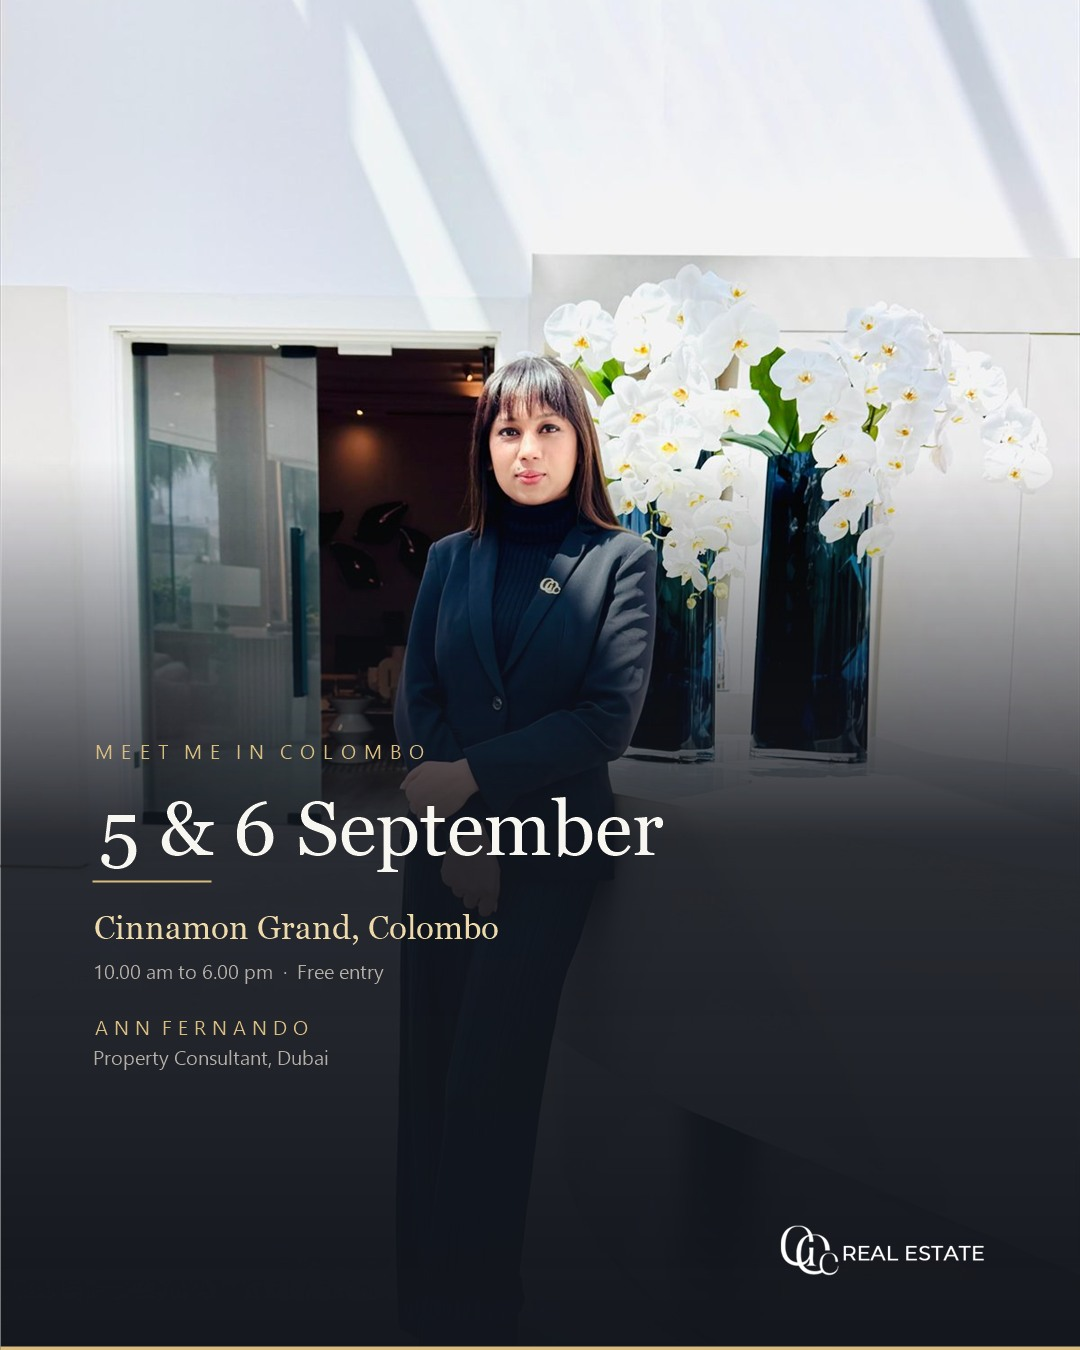
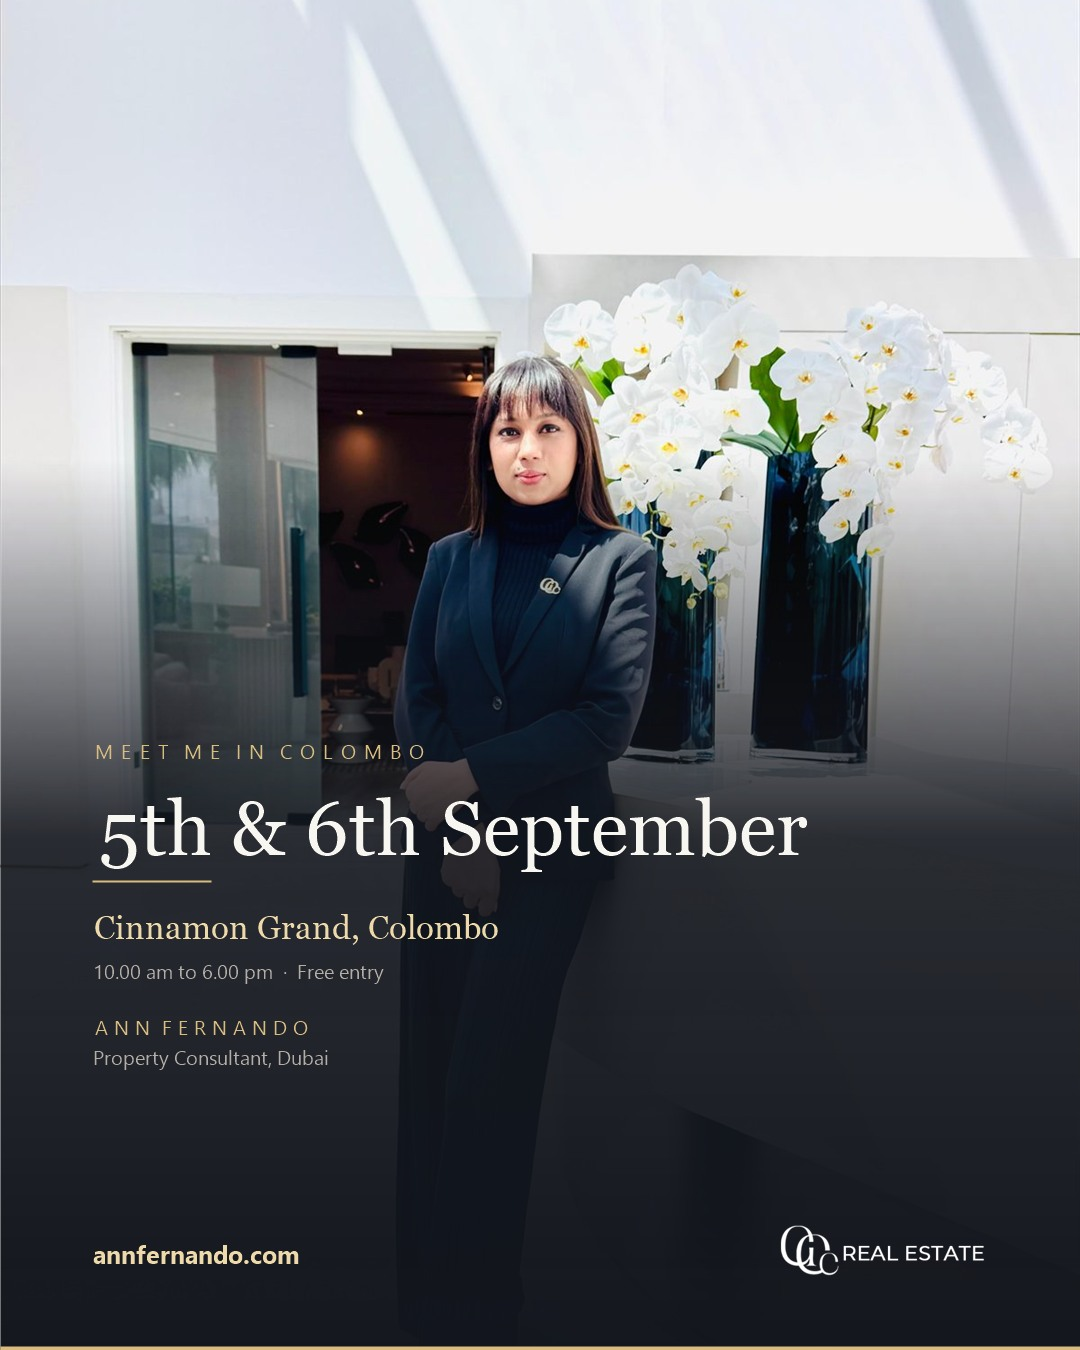
Add the Colombo roadshow section, and the site URL to the creatives
The ads now drive to the website rather than straight to WhatsApp, so the
site had to actually mention the event. It did not.

Site:
- New band directly under the trust bar, where paid traffic lands
- Date, venue, time, free entry, and a live countdown in days/hours/mins
- 'Reserve your slot' opens WhatsApp with the event and dates pre-filled
- Gold-highlighted nav pill, 'Colombo, 5-6 Sept'
- Leads with the reassurance that nobody will be asked to sign anything.
  Fear of a hard sell in a hotel function room is the main reason people
  do not turn up, so it is answered before anything else.
- Self-retires: roadshow.endsAt drives the countdown, and once it passes
  the band switches to 'I was in Colombo on the 5th and 6th, message me
  and we will do it on video'. That keeps converting the ad traffic still
  arriving for a week afterwards. Countdown runs client-side because the
  page is statically generated and a build-time date would freeze.

Creatives:
- Dates now read '5th & 6th September'
- annfernando.com added along the bottom left, opposite the GCC logo.
  The ad drives to the site, and these get screenshotted and forwarded
  with no link attached, so the address has to survive on its own.
- Date auto-fits its width so a longer string can never overrun

Changed region(s): [[0.2139, 0.5911, 0.7333, 0.6533], [0.0917, 0.9022, 0.275, 0.9333], [0.1222, 0.5911, 0.1833, 0.6533]]

diff --git a/components/sections/Roadshow.tsx b/components/sections/Roadshow.tsx
@@ -1,0 +1,209 @@
+"use client";
+
+import { useEffect, useState } from "react";
+import Image from "next/image";
+import { motion } from "motion/react";
+import Reveal from "@/components/Reveal";
+import { agent, roadshow } from "@/content/copy";
+import { Say } from "@/lib/bi";
+
+const EASE = [0.16, 1, 0.3, 1] as const;
+
+/**
+ * Time-boxed event band, and the landing point for paid traffic.
+ *
+ * The page is statically generated, so `new Date()` at build time would be
+ * frozen at whenever the last deploy happened. The countdown and the
+ * before/after switch therefore run on the client, after mount. Server render
+ * shows the pre-event state, which is correct until the date passes.
+ *
+ * Everything keys off `roadshow.endsAt` — change that one value and the
+ * countdown, the copy and the nav item all follow.
+ */
+function useCountdown(endsAt: string) {
+  const [state, setState] = useState<{
+    days: number;
+    hours: number;
+    minutes: number;
+    over: boolean;
+    ready: boolean;
+  }>({ days: 0, hours: 0, minutes: 0, over: false, ready: false });
+
+  useEffect(() => {
+    const end = new Date(endsAt).getTime();
+    const tick = () => {
+      const diff = end - Date.now();
+      if (diff <= 0) {
+        setState({ days: 0, hours: 0, minutes: 0, over: true, ready: true });
+        return;
+      }
+      setState({
+        days: Math.floor(diff / 86_400_000),
+        hours: Math.floor((diff / 3_600_000) % 24),
+        minutes: Math.floor((diff / 60_000) % 60),
+        over: false,
+        ready: true,
+      });
+    };
+    tick();
+    const id = setInterval(tick, 30_000);
+    return () => clearInterval(id);
+  }, [endsAt]);
+
+  return state;
+}
+
+export default function Roadshow() {
+  const { days, hours, minutes, over, ready } = useCountdown(roadshow.endsAt);
+
+  if (!roadshow.active) return null;
+
+  const bookHref = `https://wa.me/${agent.whatsapp}?text=${encodeURIComponent(
+    over
+      ? "Hi Ann, I missed the Colombo roadshow. Can we talk on video?"
+      : `Hi Ann, I'd like to reserve a slot at the Colombo roadshow on ${roadshow.dates}.`
+  )}`;
+
+  return (
+    <section
+      id="roadshow"
+      className="relative overflow-hidden border-t border-gold-600/30"
+    >
+      <div className="pointer-events-none absolute inset-0 -z-10">
+        <Image
+          src="/images/city-07.jpg"
+          alt=""
+          fill
+          quality={72}
+          sizes="100vw"
+          className="object-cover object-bottom opacity-35"
+        />
+        <div className="absolute inset-0 bg-gradient-to-r from-ink-950 via-ink-950/92 to-ink-950/70" />
+        <div className="aurora absolute -right-[8%] top-[6%] h-[34vmax] w-[34vmax] rounded-full bg-[radial-gradient(circle,rgba(217,189,128,0.18),transparent_66%)]" />
+      </div>
+
+      <div className="mx-auto max-w-7xl px-6 py-16 lg:py-20">
+        {over ? (
+          /* ── After the event ─────────────────────────────────────── */
+          <Reveal className="max-w-3xl">
+            <p className="mb-4 text-xs uppercase tracking-[0.3em] text-gold-500">
+              {roadshow.eyebrow}
+            </p>
+            <h2 className="font-display text-[clamp(1.8rem,3.6vw,2.8rem)] font-light leading-[1.12] text-bone">
+              {roadshow.afterTitle}
+            </h2>
+            <p className="mt-5 max-w-xl text-lg leading-relaxed text-bone-dim">
+              {roadshow.afterBody}
+            </p>
+            <a
+              href={bookHref}
+              target="_blank"
+              rel="noopener noreferrer"
+              className="group relative mt-8 inline-block overflow-hidden rounded-full bg-gold-500 px-8 py-4 text-base font-medium text-ink-950 transition-transform duration-300 hover:scale-[1.03]"
+            >
+              <span className="relative z-10">{roadshow.afterCta}</span>
+              <span className="absolute inset-0 -translate-x-full bg-gold-400 transition-transform duration-500 group-hover:translate-x-0" />
+            </a>
+          </Reveal>
+        ) : (
+          /* ── Before the event ────────────────────────────────────── */
+          <div className="grid gap-10 lg:grid-cols-12 lg:items-center lg:gap-14">
+            <Reveal className="lg:col-span-7">
+              <div className="mb-5 flex flex-wrap items-center gap-3">
+                <span className="relative flex h-2 w-2">
+                  <span className="absolute inline-flex h-full w-full animate-ping rounded-full bg-gold-500 opacity-70" />
+                  <span className="relative inline-flex h-2 w-2 rounded-full bg-gold-500" />
+                </span>
+                <p className="text-xs uppercase tracking-[0.3em] text-gold-500">
+                  {roadshow.eyebrow}
+                </p>
+              </div>
+
+              <Say
+                as="h2"
+                v={roadshow.title}
+                className="glow-gold font-display text-[clamp(2rem,4.6vw,3.4rem)] font-light leading-[1.06] text-bone"
+              />
+
+              <p className="mt-6 font-display text-[clamp(1.9rem,4vw,2.9rem)] font-light leading-none text-gold-400">
+                {roadshow.dates}
+              </p>
+              <p className="mt-3 text-lg text-bone">
+                {roadshow.venue}
+              </p>
+              <p className="mt-1.5 text-sm text-bone-dim">
+                {roadshow.time} · {roadshow.entry}
+              </p>
+
+              <p className="mt-6 max-w-xl text-[17px] leading-relaxed text-bone-dim">
+                {roadshow.intro}
+              </p>
+              <p className="mt-3 max-w-xl text-[15px] leading-relaxed text-bone-faint">
+                {roadshow.reassurance}
+              </p>
+
+              <div className="mt-8 flex flex-wrap items-center gap-x-6 gap-y-3">
+                <a
+                  href={bookHref}
+                  target="_blank"
+                  rel="noopener noreferrer"
+                  className="group relative inline-block overflow-hidden rounded-full bg-gold-500 px-8 py-4 text-base font-medium text-ink-950 transition-transform duration-300 hover:scale-[1.03]"
+                >
+                  <span className="relative z-10">
+                    <Say v={roadshow.cta} />
+                  </span>
+                  <span className="absolute inset-0 -translate-x-full bg-gold-400 transition-transform duration-500 group-hover:translate-x-0" />
+                </a>
+                <p className="text-sm text-bone-faint">{roadshow.ctaNote}</p>
+              </div>
+            </Reveal>
+
+            {/* ── Countdown + facts ─────────────────────────────────── */}
+            <Reveal delay={0.1} className="lg:col-span-5">
+              <div className="edge-gold rounded-3xl bg-ink-900/70 p-7 backdrop-blur-sm sm:p-8">
+                <p className="text-[11px] uppercase tracking-[0.24em] text-gold-600">
+                  {roadshow.countdownLabel}
+                </p>
+
+                <div className="mt-4 flex items-end gap-5">
+                  {[
+                    { n: days, l: "days" },
+                    { n: hours, l: "hrs" },
+                    { n: minutes, l: "min" },
+                  ].map((u) => (
+                    <div key={u.l}>
+                      <motion.p
+                        initial={false}
+                        animate={{ opacity: ready ? 1 : 0.25 }}
+                        transition={{ duration: 0.4, ease: EASE }}
+                        className="font-display text-[clamp(2.2rem,4.4vw,3rem)] font-light leading-none text-gold-400 tabular-nums"
+                      >
+                        {ready ? String(u.n).padStart(2, "0") : "--"}
+                      </motion.p>
+                      <p className="mt-1.5 text-[10px] uppercase tracking-[0.2em] text-bone-faint">
+                        {u.l}
+                      </p>
+                    </div>
+                  ))}
+                </div>
+
+                <dl className="mt-8 space-y-3 border-t border-bone/10 pt-6">
+                  {roadshow.facts.map((f) => (
+                    <div key={f.k} className="flex gap-4">
+                      <dt className="w-16 shrink-0 text-[11px] uppercase tracking-[0.16em] text-gold-600">
+                        {f.k}
+                      </dt>
+                      <dd className="flex-1 text-sm leading-relaxed text-bone-dim">
+                        {f.v}
+                      </dd>
+                    </div>
+                  ))}
+                </dl>
+              </div>
+            </Reveal>
+          </div>
+        )}
+      </div>
+    </section>
+  );
+}

diff --git a/content/copy.ts b/content/copy.ts
@@ -131,6 +131,8 @@ export const whatsappHref = `https://wa.me/${agent.whatsapp}?text=${encodeURICom
 /* ─── Nav ───────────────────────────────────────────────────────────────── */
 
 export const nav = [
+  // Gold-highlighted in the nav while the event is live; see Nav.tsx.
+  { label: "Colombo, 5–6 Sept", href: "#roadshow", highlight: true },
   { label: "About Ann", href: "#about" },
   { label: "How I work", href: "#principles" },
   { label: "Verify me", href: "#verify" },
@@ -179,6 +181,59 @@ export const hero = {
   ),
   ctaSecondary: t("Get a proposal", undefined, undefined),
   scrollCue: "Scroll",
+};
+
+/* ─── 1b. Roadshow ──────────────────────────────────────────────────────── */
+/**
+ * Time-boxed event band. Sits directly under the trust bar because while it
+ * is running it is the most important thing on the page, and it is where paid
+ * traffic lands.
+ *
+ * `endsAt` drives everything: the countdown, the nav item, and the switch to
+ * the after-the-event message. Change that one date and the whole section
+ * follows. Set `active: false` to remove it entirely once there is no next
+ * event scheduled.
+ */
+export const roadshow = {
+  active: true,
+  /** Sri Lanka is UTC+5:30. Doors close 6pm on the second day. */
+  endsAt: "2026-09-06T18:00:00+05:30",
+
+  eyebrow: "In Sri Lanka",
+  title: t(
+    "Meet me in Colombo.",
+    "කොළඹදී හමුවෙමු.",
+    "high",
+    "An invitation, not an announcement. Warmer in the mother tongue, and the whole point of the event is that she is there in person."
+  ),
+  dates: "5th & 6th September",
+  venue: "Cinnamon Grand, Colombo",
+  time: "10.00 am to 6.00 pm",
+  entry: "Free entry",
+
+  intro:
+    "Two days, in person. Walk in any time between 10am and 6pm, or message me and I'll set aside a time for you.",
+  // The single biggest reason people do not come is fear of a hard sell in a
+  // hotel function room. Say the opposite, plainly, before anything else.
+  reassurance:
+    "Bring a budget figure and a question. Nobody will ask you to sign anything, and there is no presentation to sit through.",
+
+  facts: [
+    { k: "When", v: "5th & 6th September, 10am to 6pm" },
+    { k: "Where", v: "Cinnamon Grand, Colombo" },
+    { k: "Cost", v: "Free, no ticket needed" },
+    { k: "Bring", v: "Your budget and your questions" },
+  ],
+
+  cta: t("Reserve your slot", "වෙලාවක් වෙන් කරන්න", "high"),
+  ctaNote: "Or just walk in. Both work.",
+  countdownLabel: "Until doors open",
+
+  /** Shown automatically once `endsAt` has passed. */
+  afterTitle: "I was in Colombo on the 5th and 6th of September.",
+  afterBody:
+    "If we did not get to meet, message me and we will do it on video instead. Same conversation, same questions, no travel.",
+  afterCta: "Let's talk on video",
 };
 
 /* ─── 2. Trust bar ──────────────────────────────────────────────────────── */

diff --git a/app/page.tsx b/app/page.tsx
@@ -7,6 +7,7 @@ import SlotInspector from "@/components/SlotInspector";
 
 import Hero from "@/components/sections/Hero";
 import TrustBar from "@/components/sections/TrustBar";
+import Roadshow from "@/components/sections/Roadshow";
 import About from "@/components/sections/About";
 import Principles from "@/components/sections/Principles";
 import Verify from "@/components/sections/Verify";
@@ -47,6 +48,9 @@ export default function Page() {
       <main>
         <Hero />
         <TrustBar />
+        {/* Time-boxed. Sits this high because it is where paid traffic lands,
+            and it self-retires once roadshow.endsAt has passed. */}
+        <Roadshow />
         <About />
         <Principles />
         <Verify />

diff --git a/components/Nav.tsx b/components/Nav.tsx
@@ -57,7 +57,12 @@ export default function Nav() {
               <a
                 key={n.href}
                 href={n.href}
-                className="relative whitespace-nowrap text-[13px] text-bone-dim transition-colors hover:text-bone"
+                className={cn(
+                  "relative whitespace-nowrap text-[13px] transition-colors",
+                  n.highlight
+                    ? "rounded-full border border-gold-600/50 px-3 py-1.5 text-gold-400 hover:bg-gold-500 hover:text-ink-950"
+                    : "text-bone-dim hover:text-bone"
+                )}
               >
                 {n.label}
               </a>
